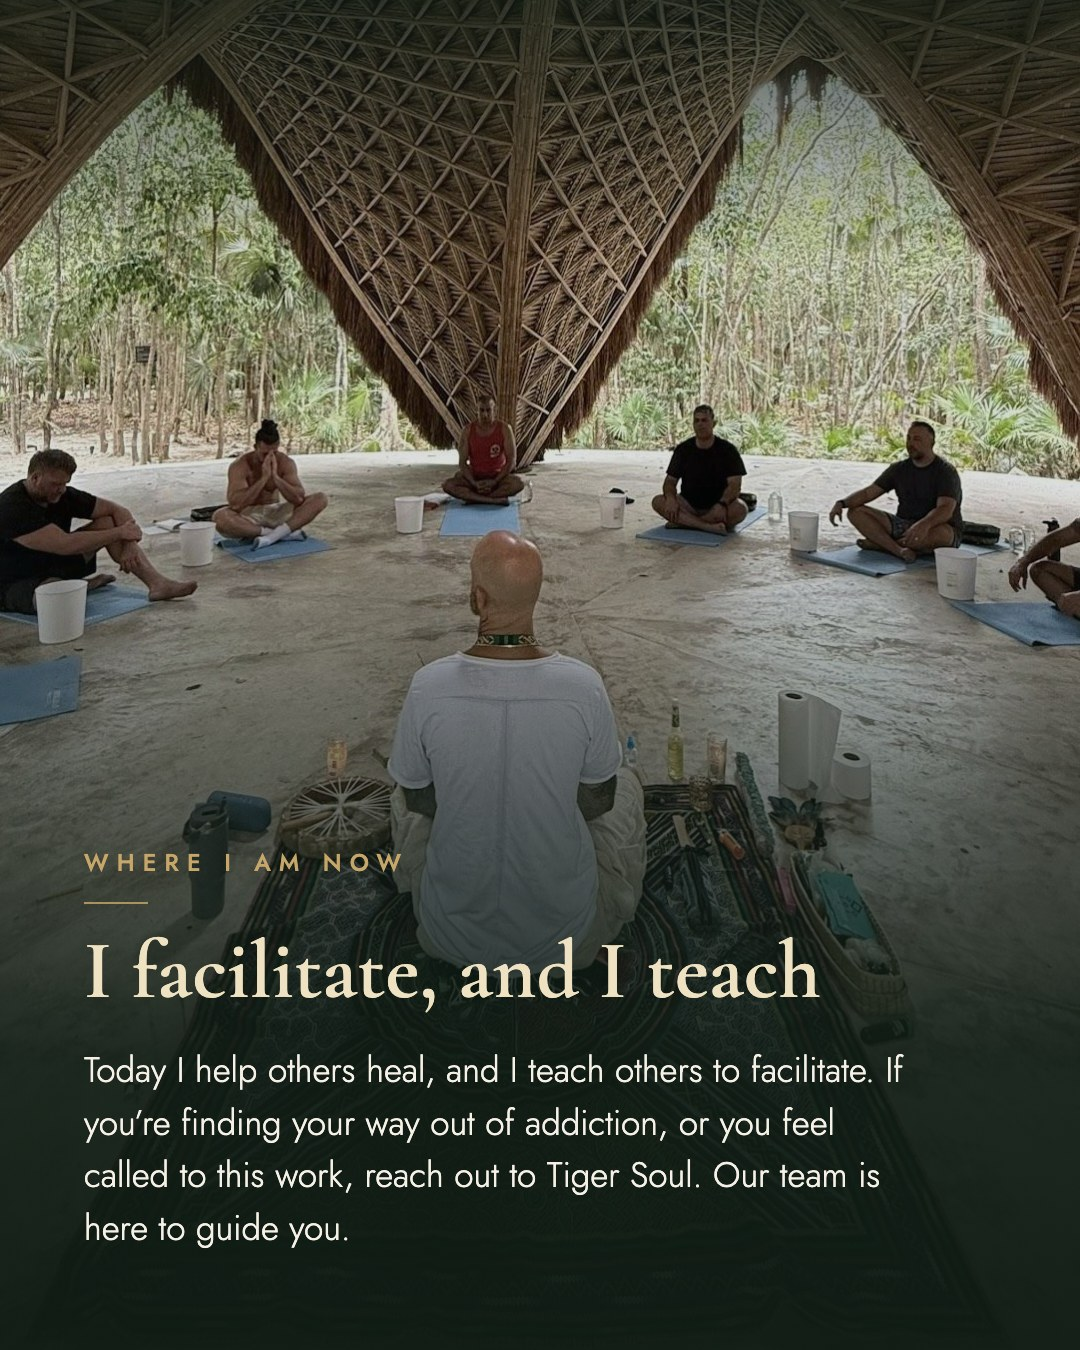
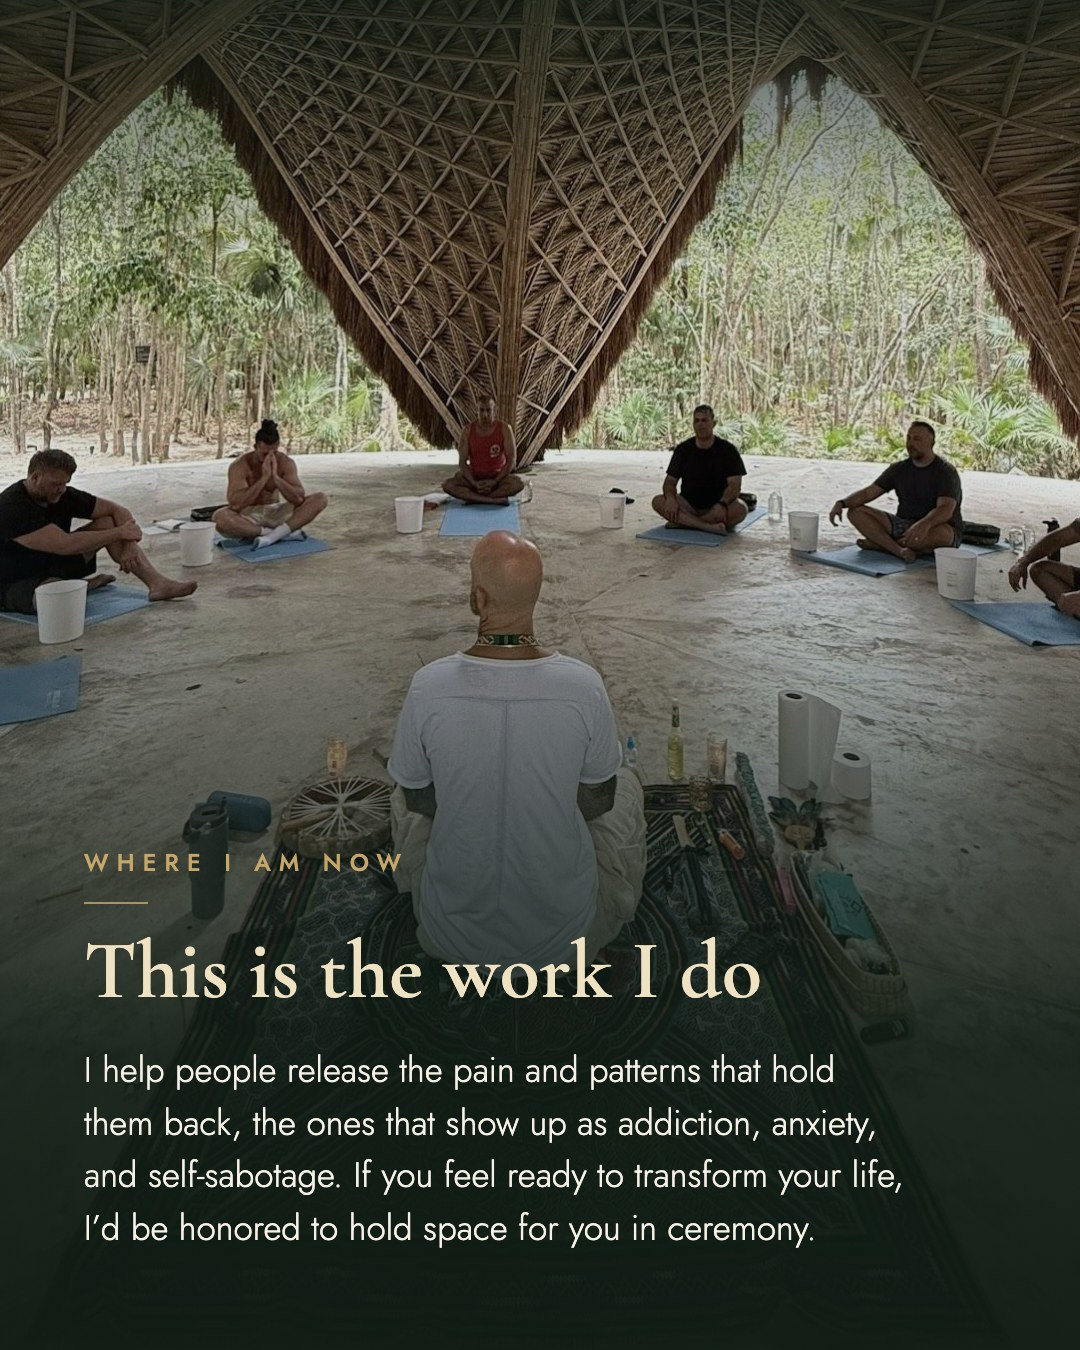
Slide 9: 'This is the work I do' + broader invitation (patterns, not just addiction)

Changed region(s): [[0.0611, 0.7778, 0.825, 0.9333], [0.0611, 0.6844, 0.7639, 0.7467]]

diff --git a/index.html b/index.html
@@ -358,15 +358,15 @@ const POSTS = [
     caption:"Caption should include:\n•  A short version of the story: from back pain and opiates to sacred medicine and healing others.\n•  An invitation to reach out or ask questions.",
     notes:"!! **First-draft slides are designed and ready below (9 slides).** These are a starting point built from Blaine's photos and his own words. Swap photos, tweak copy, or reorder right here.\n\nA sequenced carousel telling the story of how Blaine became a healer, in his own words. Each slide moves the story forward.\n\n# The story, slide by slide (as designed)\n• **Slide 1 (hook).** “How I became a healer” + “For 17 years, opiates owned me.”\n• **Slide 2.** Where it started: 17 years of back pain, and how it led to opiates.\n• **Slide 3.** The spiral: tolerance, withdrawals, being owned by it.\n• **Slide 4.** The opioid trap: the months of pain nobody warns you about.\n• **Slide 5.** First attempt: Ibogaine (it didn't hold, because of the environment).\n• **Slide 6.** The turning point: Ayahuasca.\n• **Slide 7.** Deeper healing: Kambo and other sacred medicines.\n• **Slide 8.** The calling: then Bufo called me.\n• **Slide 9.** Where he is now: facilitating and teaching others. Invitation to reach out.\n\n*Photos are in Blaine's original order from his doc. The words are drawn from how Blaine tells it, his voice comes first.*",
     assets:[
-      {src:"assets/carousel-healer/01.jpg?v=10", thumb:"assets/carousel-healer/thumb/01.jpg?v=10", cap:"Slide 1: Hook — How I became a healer & founder of Tiger Soul"},
-      {src:"assets/carousel-healer/02.jpg?v=10", thumb:"assets/carousel-healer/thumb/02.jpg?v=10", cap:"Slide 2: Where it started (17 years of pain)"},
-      {src:"assets/carousel-healer/03.jpg?v=10", thumb:"assets/carousel-healer/thumb/03.jpg?v=10", cap:"Slide 3: The spiral (it owned me)"},
-      {src:"assets/carousel-healer/04.jpg?v=10", thumb:"assets/carousel-healer/thumb/04.jpg?v=10", cap:"Slide 4: The opioid trap"},
-      {src:"assets/carousel-healer/05.jpg?v=10", thumb:"assets/carousel-healer/thumb/05.jpg?v=10", cap:"Slide 5: Ibogaine (first attempt)"},
-      {src:"assets/carousel-healer/06.jpg?v=10", thumb:"assets/carousel-healer/thumb/06.jpg?v=10", cap:"Slide 6: Ayahuasca (turning point)"},
-      {src:"assets/carousel-healer/07.jpg?v=10", thumb:"assets/carousel-healer/thumb/07.jpg?v=10", cap:"Slide 7: Kambo & sacred medicine"},
-      {src:"assets/carousel-healer/08.jpg?v=10", thumb:"assets/carousel-healer/thumb/08.jpg?v=10", cap:"Slide 8: Then Bufo called me"},
-      {src:"assets/carousel-healer/09.jpg?v=10", thumb:"assets/carousel-healer/thumb/09.jpg?v=10", cap:"Slide 9: Facilitating now + invitation"}
+      {src:"assets/carousel-healer/01.jpg?v=11", thumb:"assets/carousel-healer/thumb/01.jpg?v=11", cap:"Slide 1: Hook — How I became a healer & founder of Tiger Soul"},
+      {src:"assets/carousel-healer/02.jpg?v=11", thumb:"assets/carousel-healer/thumb/02.jpg?v=11", cap:"Slide 2: Where it started (17 years of pain)"},
+      {src:"assets/carousel-healer/03.jpg?v=11", thumb:"assets/carousel-healer/thumb/03.jpg?v=11", cap:"Slide 3: The spiral (it owned me)"},
+      {src:"assets/carousel-healer/04.jpg?v=11", thumb:"assets/carousel-healer/thumb/04.jpg?v=11", cap:"Slide 4: The opioid trap"},
+      {src:"assets/carousel-healer/05.jpg?v=11", thumb:"assets/carousel-healer/thumb/05.jpg?v=11", cap:"Slide 5: Ibogaine (first attempt)"},
+      {src:"assets/carousel-healer/06.jpg?v=11", thumb:"assets/carousel-healer/thumb/06.jpg?v=11", cap:"Slide 6: Ayahuasca (turning point)"},
+      {src:"assets/carousel-healer/07.jpg?v=11", thumb:"assets/carousel-healer/thumb/07.jpg?v=11", cap:"Slide 7: Kambo & sacred medicine"},
+      {src:"assets/carousel-healer/08.jpg?v=11", thumb:"assets/carousel-healer/thumb/08.jpg?v=11", cap:"Slide 8: Then Bufo called me"},
+      {src:"assets/carousel-healer/09.jpg?v=11", thumb:"assets/carousel-healer/thumb/09.jpg?v=11", cap:"Slide 9: Facilitating now + invitation"}
     ] },
 
   { date:"2026-08-13", pillar:"reflection", title:"Why I Became a Bufo Facilitator",
